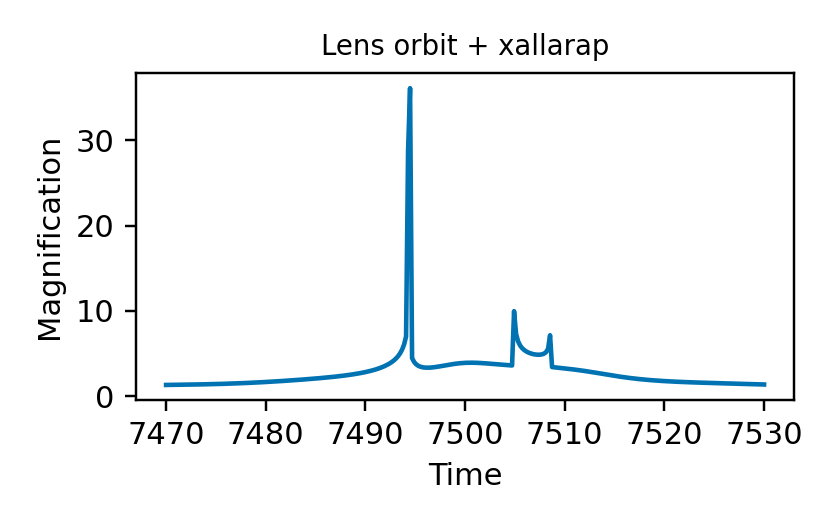
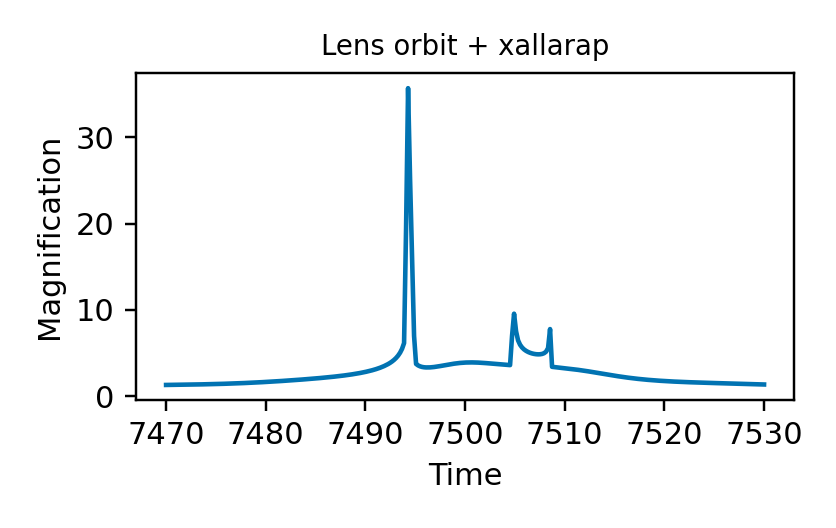
docs: restore finite sources for lens orbit examples

diff --git a/example/docs-python/generate_figures.py b/example/docs-python/generate_figures.py
@@ -778,8 +778,8 @@ def higher_order_combination_figures():
                 params.pop(key)
         if binary_source:
             params.update(
-                rho1=0.0 if orbital else 0.004,
-                rho2=0.0 if orbital else 0.003,
+                rho1=0.004,
+                rho2=0.003,
                 flux_ratio=0.4,
             )
             if xallarap:
@@ -787,7 +787,7 @@ def higher_order_combination_figures():
             else:
                 params.update(t0_2=7501.2, u0_2=-0.06)
         else:
-            params["rho"] = 0.0 if orbital else 0.004
+            params["rho"] = 0.004
 
         model_args = dict(
             source="binary" if binary_source else "single",

diff --git a/docs/python/HigherOrderCombinations.md b/docs/python/HigherOrderCombinations.md
@@ -89,7 +89,7 @@ caustics = curve.caustics(parameters)
 ## Parallax + lens orbit
 
 ```python
-parameters = dict(base, rho=0.0)
+parameters = dict(base, rho=0.004)
 curve = lcbinint.LightCurve(options=options, model=lcbinint.Model(
     parallax=True, orbital_motion="circular", sky=sky, t_ref=7500.0,
 ))
@@ -117,7 +117,7 @@ caustics = curve.caustics(parameters)
 ## Lens orbit + xallarap
 
 ```python
-parameters = dict(base, rho=0.0)
+parameters = dict(base, rho=0.004)
 curve = lcbinint.LightCurve(options=options, model=lcbinint.Model(
     orbital_motion="circular", xallarap="circular_velocity", t_ref=7500.0,
 ))
@@ -131,7 +131,7 @@ caustics = curve.caustics(7500.0, parameters)
 ## Parallax + lens orbit + xallarap
 
 ```python
-parameters = dict(base, rho=0.0)
+parameters = dict(base, rho=0.004)
 curve = lcbinint.LightCurve(options=options, model=lcbinint.Model(
     parallax=True, orbital_motion="circular", xallarap="circular_velocity",
     sky=sky, t_ref=7500.0,
@@ -163,7 +163,7 @@ caustics = curve.caustics(parameters)
 ## Binary source + lens orbit
 
 ```python
-parameters = dict(base, rho1=0.0, rho2=0.0, flux_ratio=0.4,
+parameters = dict(base, rho1=0.004, rho2=0.003, flux_ratio=0.4,
                   t0_2=7501.2, u0_2=-0.06)
 for key in ("xi_1", "xi_2", "w1", "w2", "w3"):
     parameters.pop(key)
@@ -180,7 +180,7 @@ caustics = curve.caustics(7500.0, parameters)
 ## Binary source + parallax + lens orbit
 
 ```python
-parameters = dict(base, rho1=0.0, rho2=0.0, flux_ratio=0.4,
+parameters = dict(base, rho1=0.004, rho2=0.003, flux_ratio=0.4,
                   t0_2=7501.2, u0_2=-0.06)
 for key in ("xi_1", "xi_2", "w1", "w2", "w3"):
     parameters.pop(key)
@@ -214,7 +214,7 @@ caustics = curve.caustics(parameters)
 ## Binary source + lens orbit + xallarap
 
 ```python
-parameters = dict(base, rho1=0.0, rho2=0.0, flux_ratio=0.4,
+parameters = dict(base, rho1=0.004, rho2=0.003, flux_ratio=0.4,
                   source_mass_ratio=0.7)
 curve = lcbinint.LightCurve(options=options, model=lcbinint.Model(
     source="binary", orbital_motion="circular", xallarap="circular_velocity",

diff --git a/docs/python/CombinedEffects.md b/docs/python/CombinedEffects.md
@@ -20,7 +20,6 @@ example with a light curve and a source-trajectory/caustic figure.
 | Binary | Binary source + lens orbit + xallarap | [Open](HigherOrderCombinations.md#binary-source--lens-orbit--xallarap) |
 | Binary | Binary source + parallax + lens orbit + xallarap | [Open](HigherOrderCombinations.md#binary-source--parallax--lens-orbit--xallarap) |
 
-Lens-orbit examples use point sources (`rho=0`; or `rho1=rho2=0`) because the
-current finite-source calculation does not support a time-dependent lens.
+Finite-source radii can be used with every binary-lens combination shown here.
 
 [Previous: Binary source + xallarap](BinarySourceXallarap.md) · [Documentation home](readme.md)
